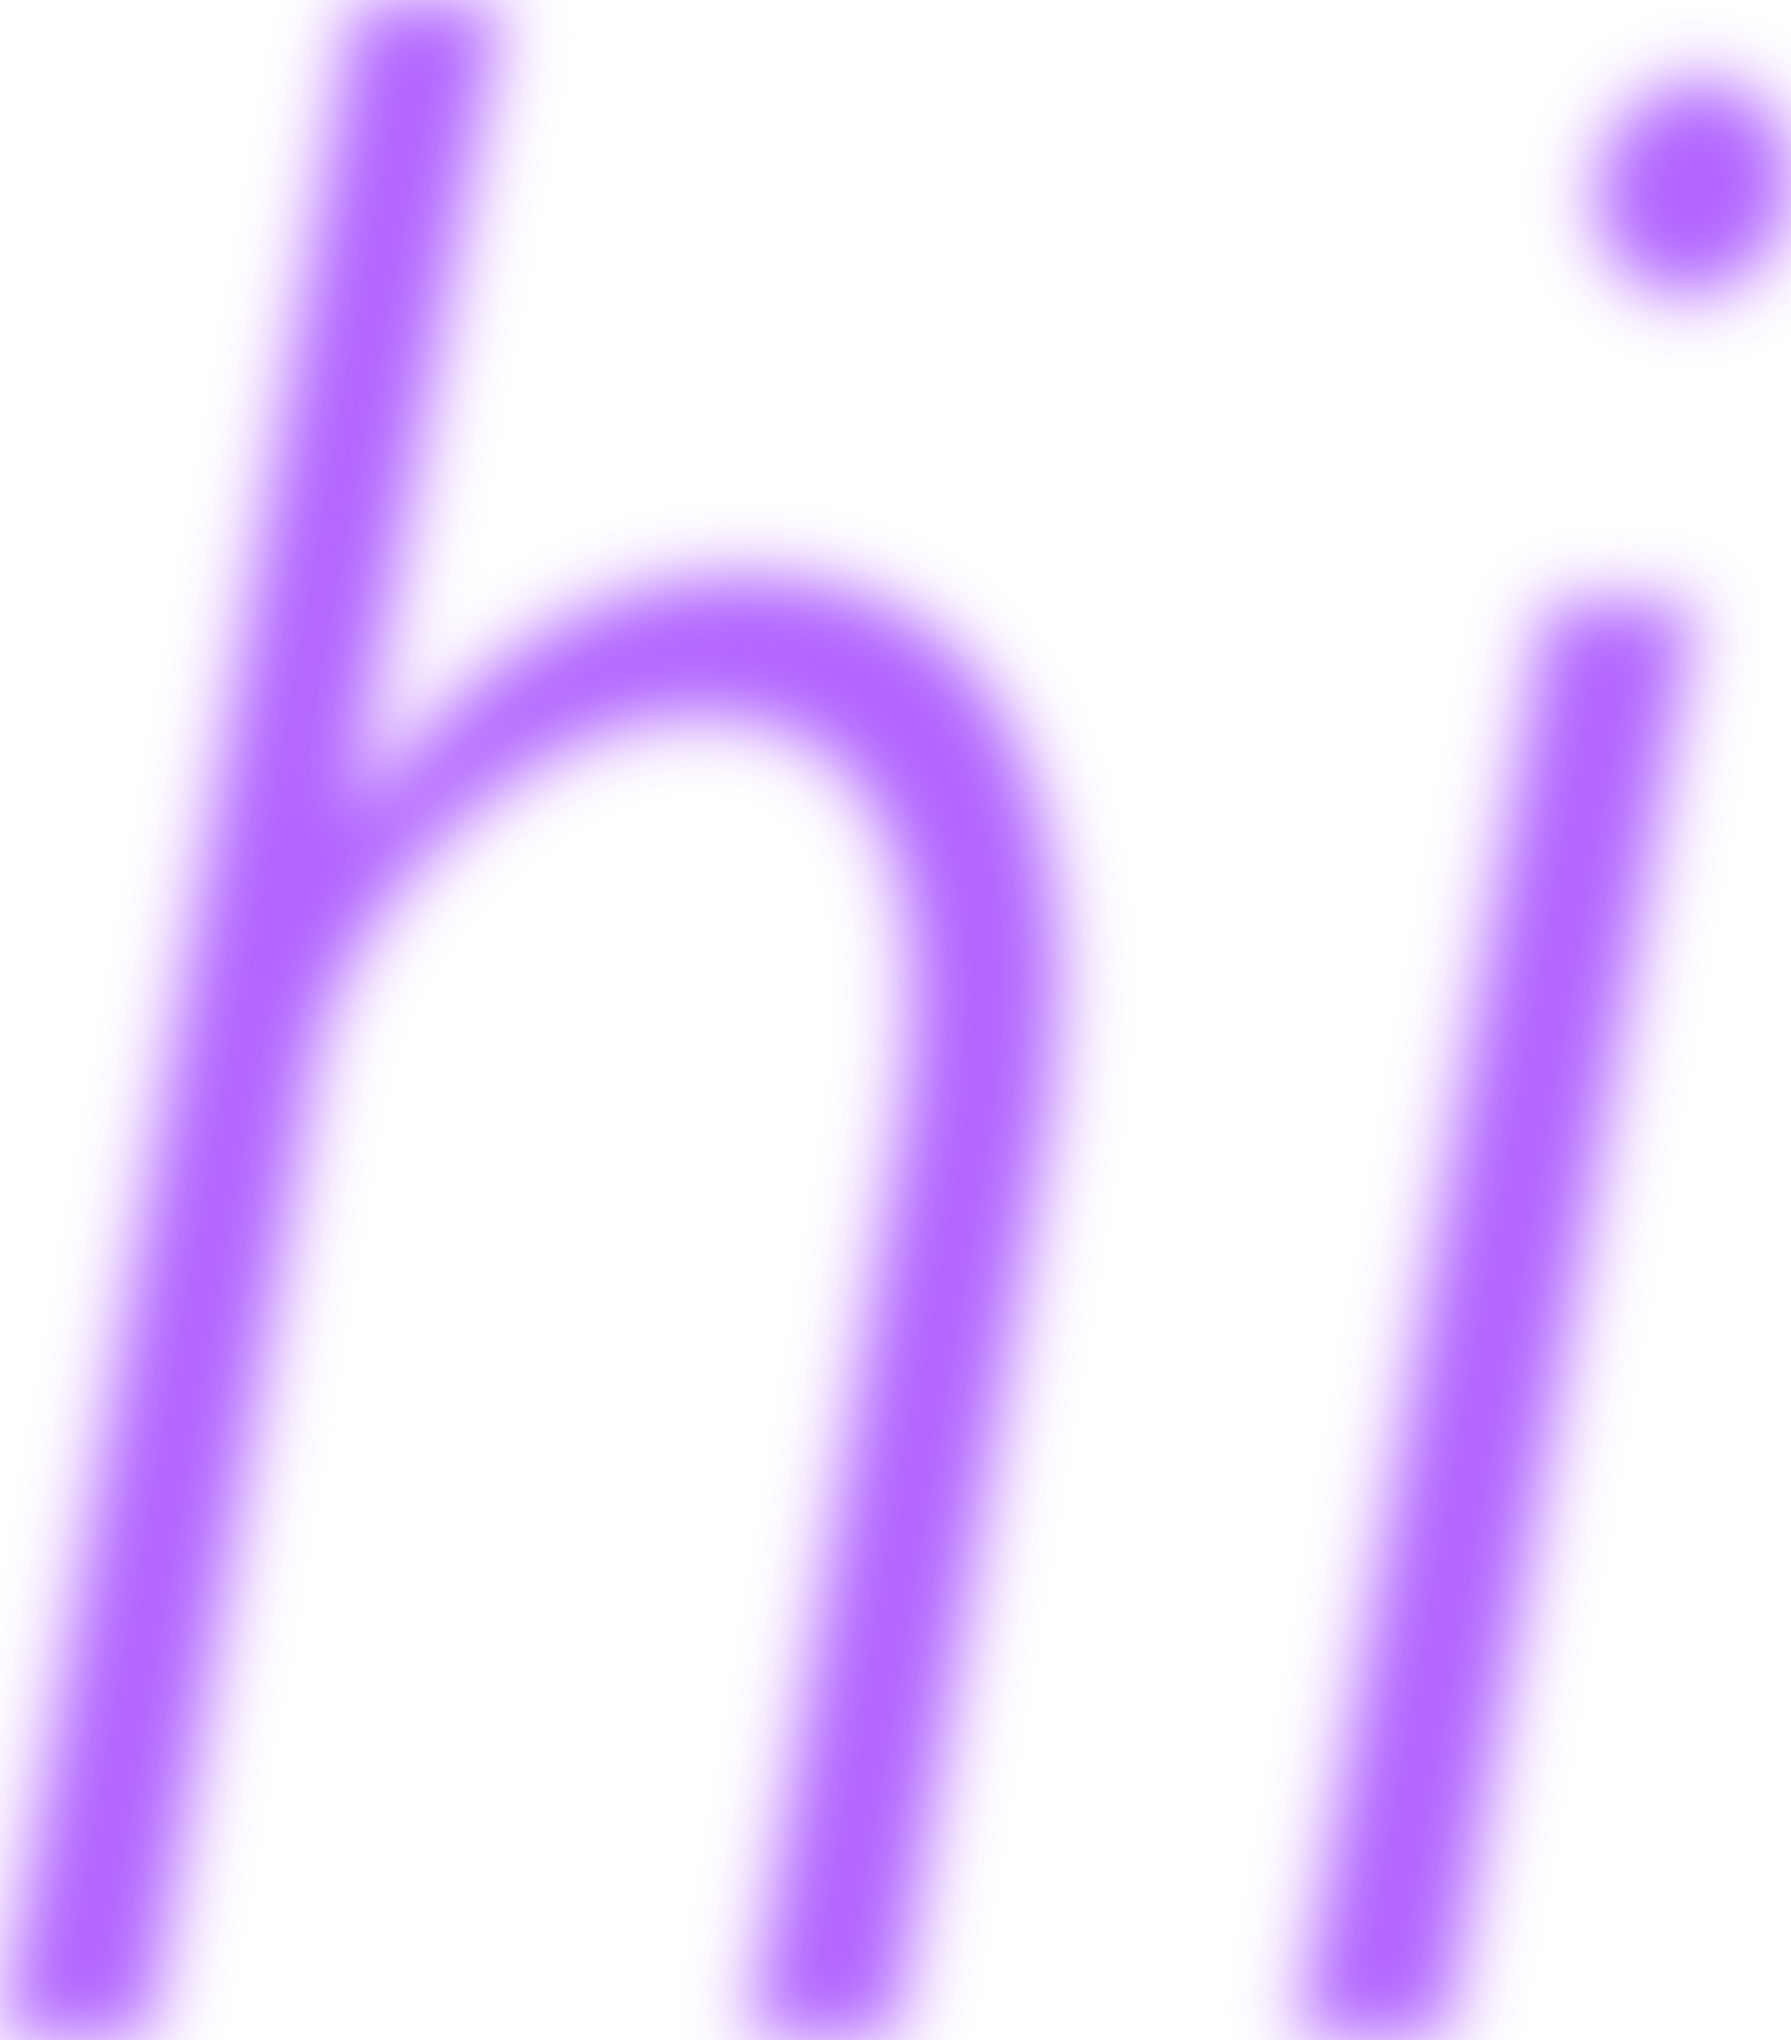
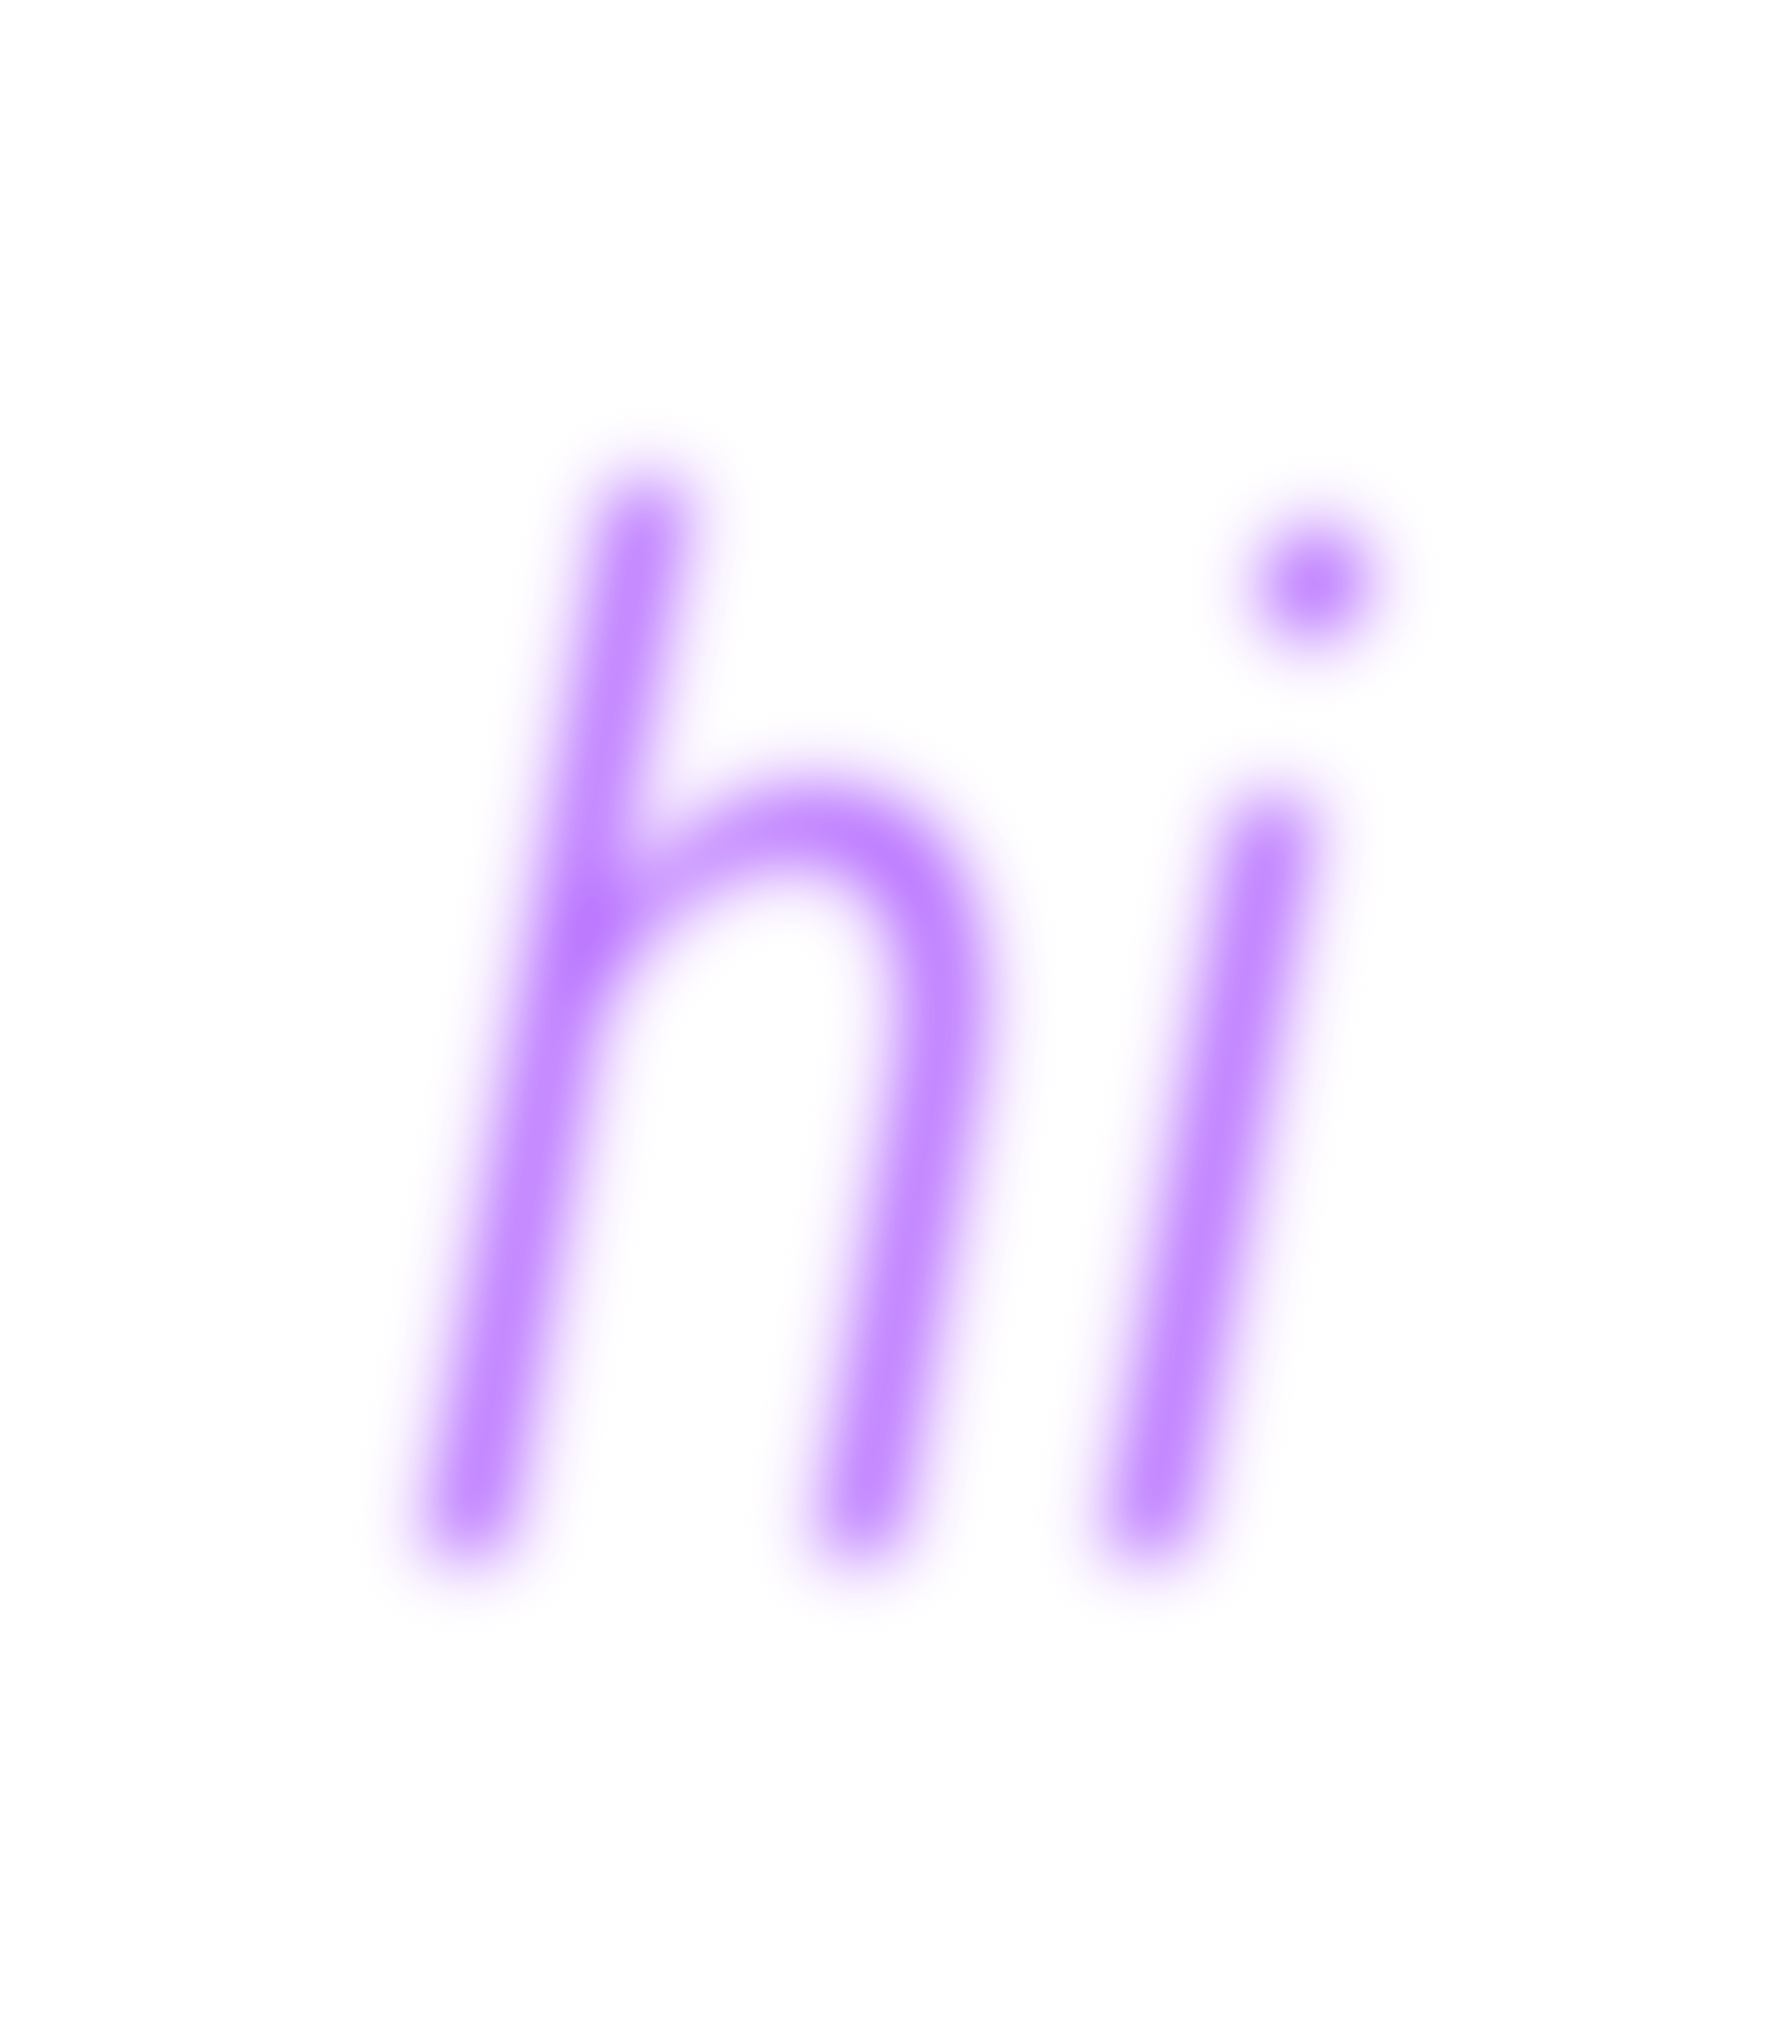
Update from Forestry.io Vera-beep created uploads/hi_zeichenflache-1-1.png Vera-beep updated projects/about.md

diff --git a/projects/about.md b/projects/about.md
@@ -1,6 +1,6 @@
 ---
 date: 2020-09-27
-thumbnail: "/uploads/hi_zeichenflache-1-2.png"
+thumbnail: "/uploads/hi_zeichenflache-1-1.png"
 title: say hi
 categories:
 - about
